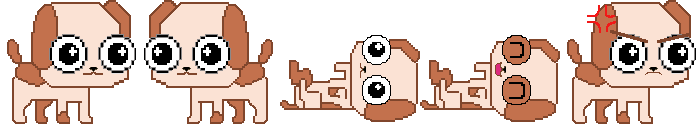
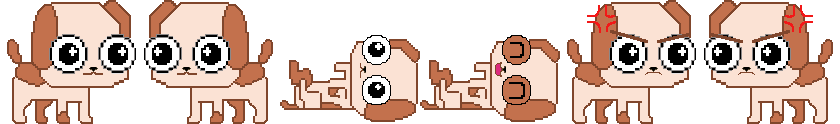
added angry switch + more creds

diff --git a/src/scenes/Play.js b/src/scenes/Play.js
@@ -37,44 +37,52 @@ class Play extends Phaser.Scene
             start: 0,
             end: 0
             })
+        })
+        this.anims.create({
+            key: 'idle-switch', 
+            frameRate: 0,
+            repeat: -1,
+            frames: this.anims.generateFrameNumbers('puppy', {
+            start: 1,
+            end: 1
             })
+        })
+        this.anims.create({
+            key: 'angry', 
+            frameRate: 0,
+            repeat: -1,
+            frames: this.anims.generateFrameNumbers('puppy', {
+            start: 5,
+            end: 5
+            })
+        })
+        this.anims.create({
+            key: 'angry-switch', 
+            frameRate: 0,
+            repeat: -1,
+            frames: this.anims.generateFrameNumbers('puppy', {
+            start: 4,
+            end: 4
+            })
+        })       
+        this.anims.create({
+            key: 'lay', 
+            frameRate: 1,
+            repeat: 5 * Phaser.Math.MAX_SAFE_INTEGER,
+            frames: this.anims.generateFrameNumbers('puppy', {
+            start: 2,
+            end: 2
+            })
+        })
             this.anims.create({
-                key: 'idle-switch', 
-                frameRate: 0,
-                repeat: -1,
-                frames: this.anims.generateFrameNumbers('puppy', {
-                start: 1,
-                end: 1
-                })
-                })
-                this.anims.create({
-                    key: 'angry', 
-                    frameRate: 0,
-                    repeat: -1,
-                    frames: this.anims.generateFrameNumbers('puppy', {
-                    start: 4,
-                    end: 4
-                    })
-                    })
-            this.anims.create({
-                key: 'lay', 
-                frameRate: 1,
-                repeat: 5 * Phaser.Math.MAX_SAFE_INTEGER,
-                frames: this.anims.generateFrameNumbers('puppy', {
-                start: 2,
-                end: 2
-                })
-            })
-                this.anims.create({
-                key: 'tummy-pet', 
-                frameRate: 5,
-                repeat: 1,
-                frames: this.anims.generateFrameNumbers('puppy', {
-                start: 2,
-                end: 3
-              })
-              
-            })
+            key: 'tummy-pet', 
+            frameRate: 5,
+            repeat: 1,
+            frames: this.anims.generateFrameNumbers('puppy', {
+            start: 2,
+            end: 3
+            }) 
+         })
            
             this.player = this.physics.add.sprite(game.config.width/2, game.config.height*30, 'puppy', 0).setScale(1.5)
               this.player.body.setCollideWorldBounds(true)
@@ -106,7 +114,7 @@ class Play extends Phaser.Scene
             }
             break;
     }
-    if (!this.isLaying && Phaser.Math.Between(1, 100) === 1) {
+    if (!this.isLaying && Phaser.Math.Between(1, 75) === 1) {
         this.player.setVelocityX(0);
         this.player.anims.play('lay', true);
         this.isLaying = true;
@@ -126,9 +134,17 @@ class Play extends Phaser.Scene
         }
         if (!this.isAngry && Phaser.Math.Between(1, 100) === 1)
         {
-            this.player.setVelocityX(0);
-            this.player.anims.play('angry', true);
-            this.isAngry = true;
+            if (this.moveDirection === 'right') {
+                this.player.setVelocityX(0);
+                this.player.anims.play('angry-switch', true);
+                this.isAngry = true;
+            }
+            else {
+                this.player.setVelocityX(0);
+                this.player.anims.play('angry', true);
+                this.isAngry = true;
+            }
+            
             this.time.addEvent({
                 delay: 1500,
                 callback: () => {
@@ -154,25 +170,20 @@ class Play extends Phaser.Scene
         }
         
         if (this.checkCollision(this.player, this.cursor)) {
-            // Check if the player is currently playing the 'lay' animation
             if (this.player.anims.currentAnim && this.player.anims.currentAnim.key === 'lay') {
-                console.log('puppy touched');
                 this.player.anims.play('tummy-pet', true);
                 this.cursor.reset();
-            }
-    
-            // Check if the player is currently playing the 'angry' animation
+        }
+        this.player.update();
             if (this.player.anims.currentAnim && this.player.anims.currentAnim.key === 'angry') {
-                // Perform actions when the player is angry
-                // For example, set game over
                 this.gameOver = true;
                 this.player.setVelocityX(0);
                 this.add.text(game.config.width / 2, game.config.height / 2, 'GAME OVER', this.scoreConfig).setOrigin(0.5).setFontSize(60);
                 this.add.text(game.config.width / 2, game.config.height / 2 + 64, 'Press (R) to Reset and (C) for Credits', this.scoreConfig).setOrigin(0.5).setFontSize(45);
                 return;
-            }
-    
         }
+    
+    }
         playerVector.normalize()
         if (!this.gameOver) {
             this.cursor.update();

diff --git a/src/scenes/Credits.js b/src/scenes/Credits.js
@@ -24,8 +24,10 @@ class Credits extends Phaser.Scene {
         this.sprite = this.add.tileSprite(0, 0, 1100, 980, 'credsbg').setOrigin(0, 0);
         this.add.text(game.config.width/2, game.config.height/3 - borderUIsize - borderPadding, 'CREDITS:', creditsConfig).setOrigin(0.5).setScale(2);
         this.add.text(game.config.width/2, game.config.height/2.9, 'Art created by Vivian Kim & Yingting Huang', creditsConfig).setOrigin(0.5);
-        this.add.text(game.config.width/2, game.config.height/2.5, 'Starting Sound:', creditsConfig).setOrigin(0.5);
-        this.add.text(game.config.width/2, game.config.height/2.3, 'https://freesound.org/people/Seth_Makes_Sounds/sounds/685123/', creditsConfig).setOrigin(0.5);
+        this.add.text(game.config.width/2, game.config.height/2.55, 'UX/UI design by Vivian Kim', creditsConfig).setOrigin(0.5);
+        this.add.text(game.config.width/2, game.config.height/2.3, 'Programming by Vivian Kim & Yingting Huang', creditsConfig).setOrigin(0.5);
+        this.add.text(game.config.width/2, game.config.height/2, 'Starting Sound:', creditsConfig).setOrigin(0.5);
+        this.add.text(game.config.width/2, game.config.height/1.8, 'https://freesound.org/people/Seth_Makes_Sounds/sounds/685123/', creditsConfig).setOrigin(0.5);
         this.add.text(game.config.width/2, game.config.height/1.36, 'PRESS UP KEY TO PLAY AGAIN', creditsConfig).setOrigin(0.5);
         this.add.text(game.config.width/2, game.config.height/1.3, 'Thank you for playing! <3', creditsConfig).setOrigin(0.5);
        
